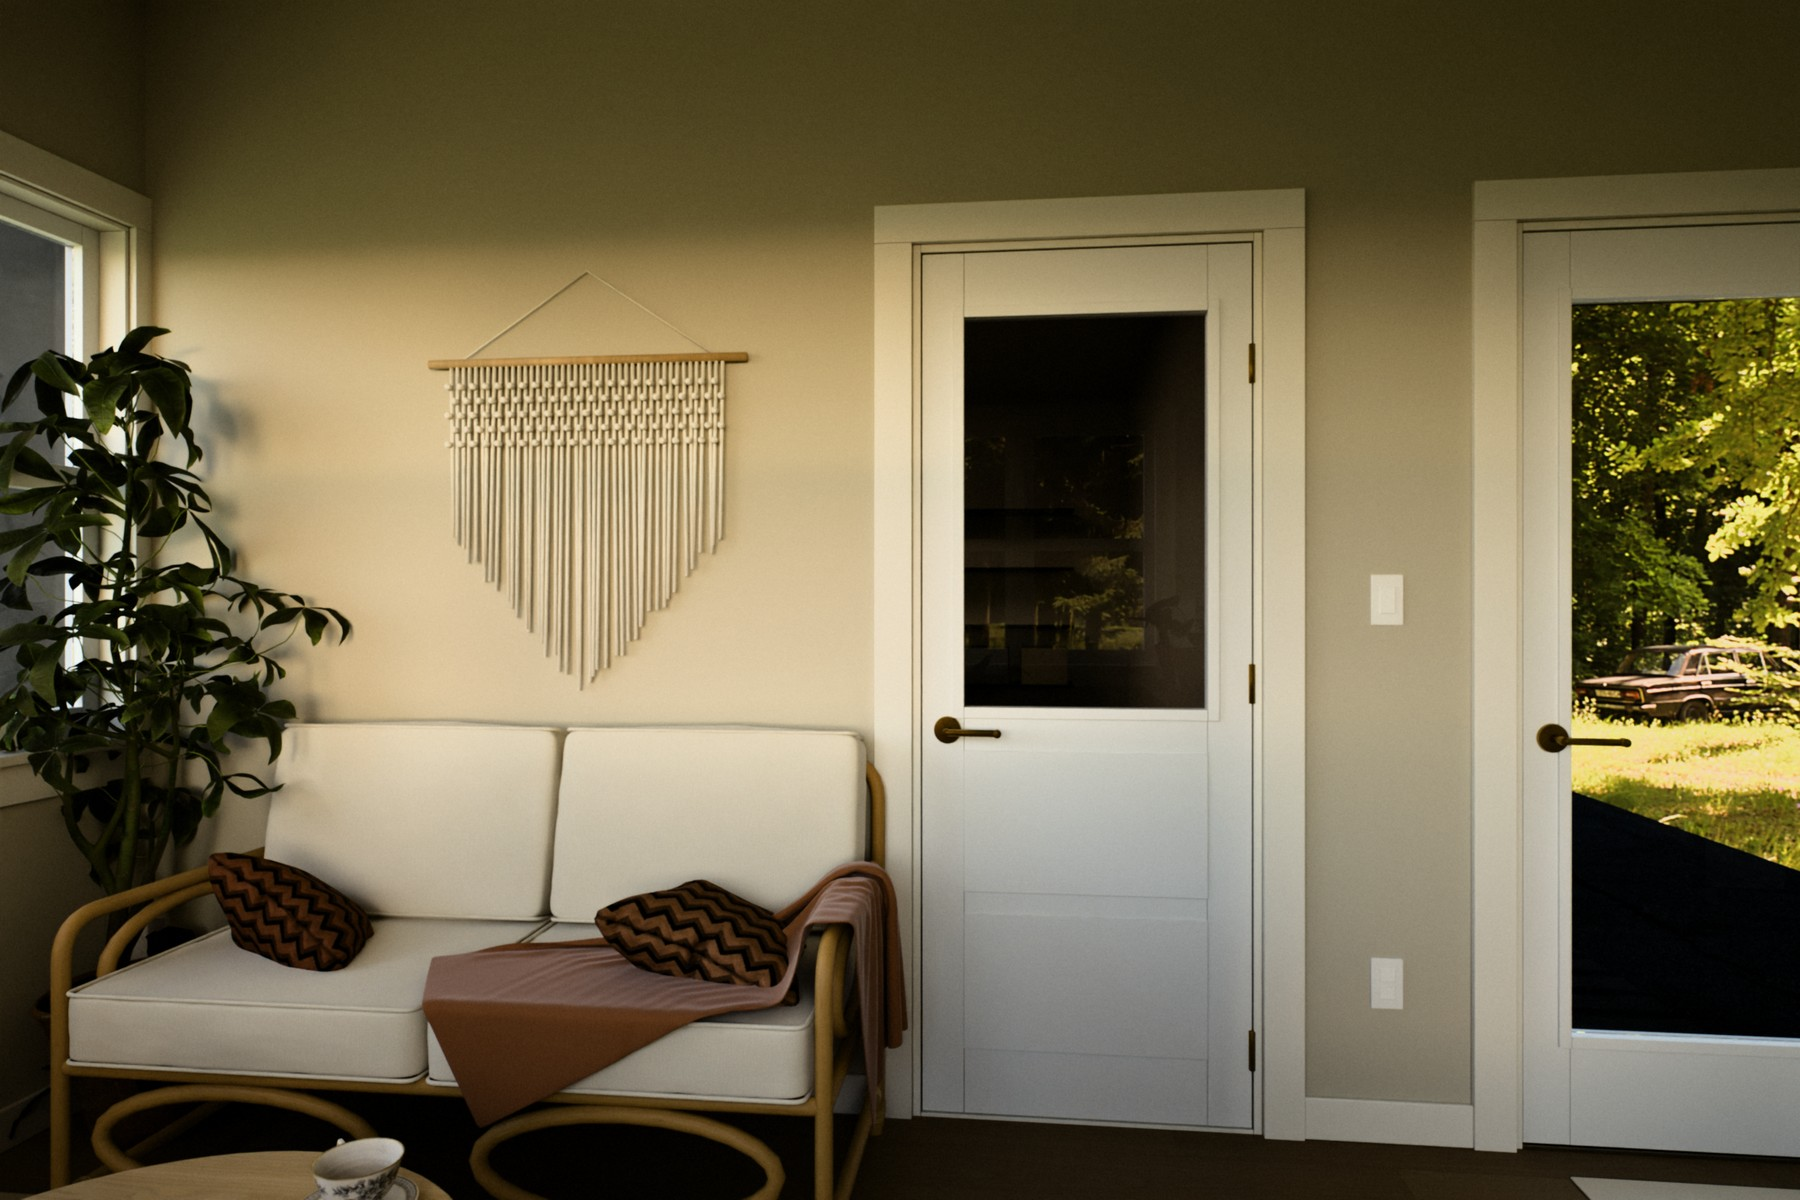
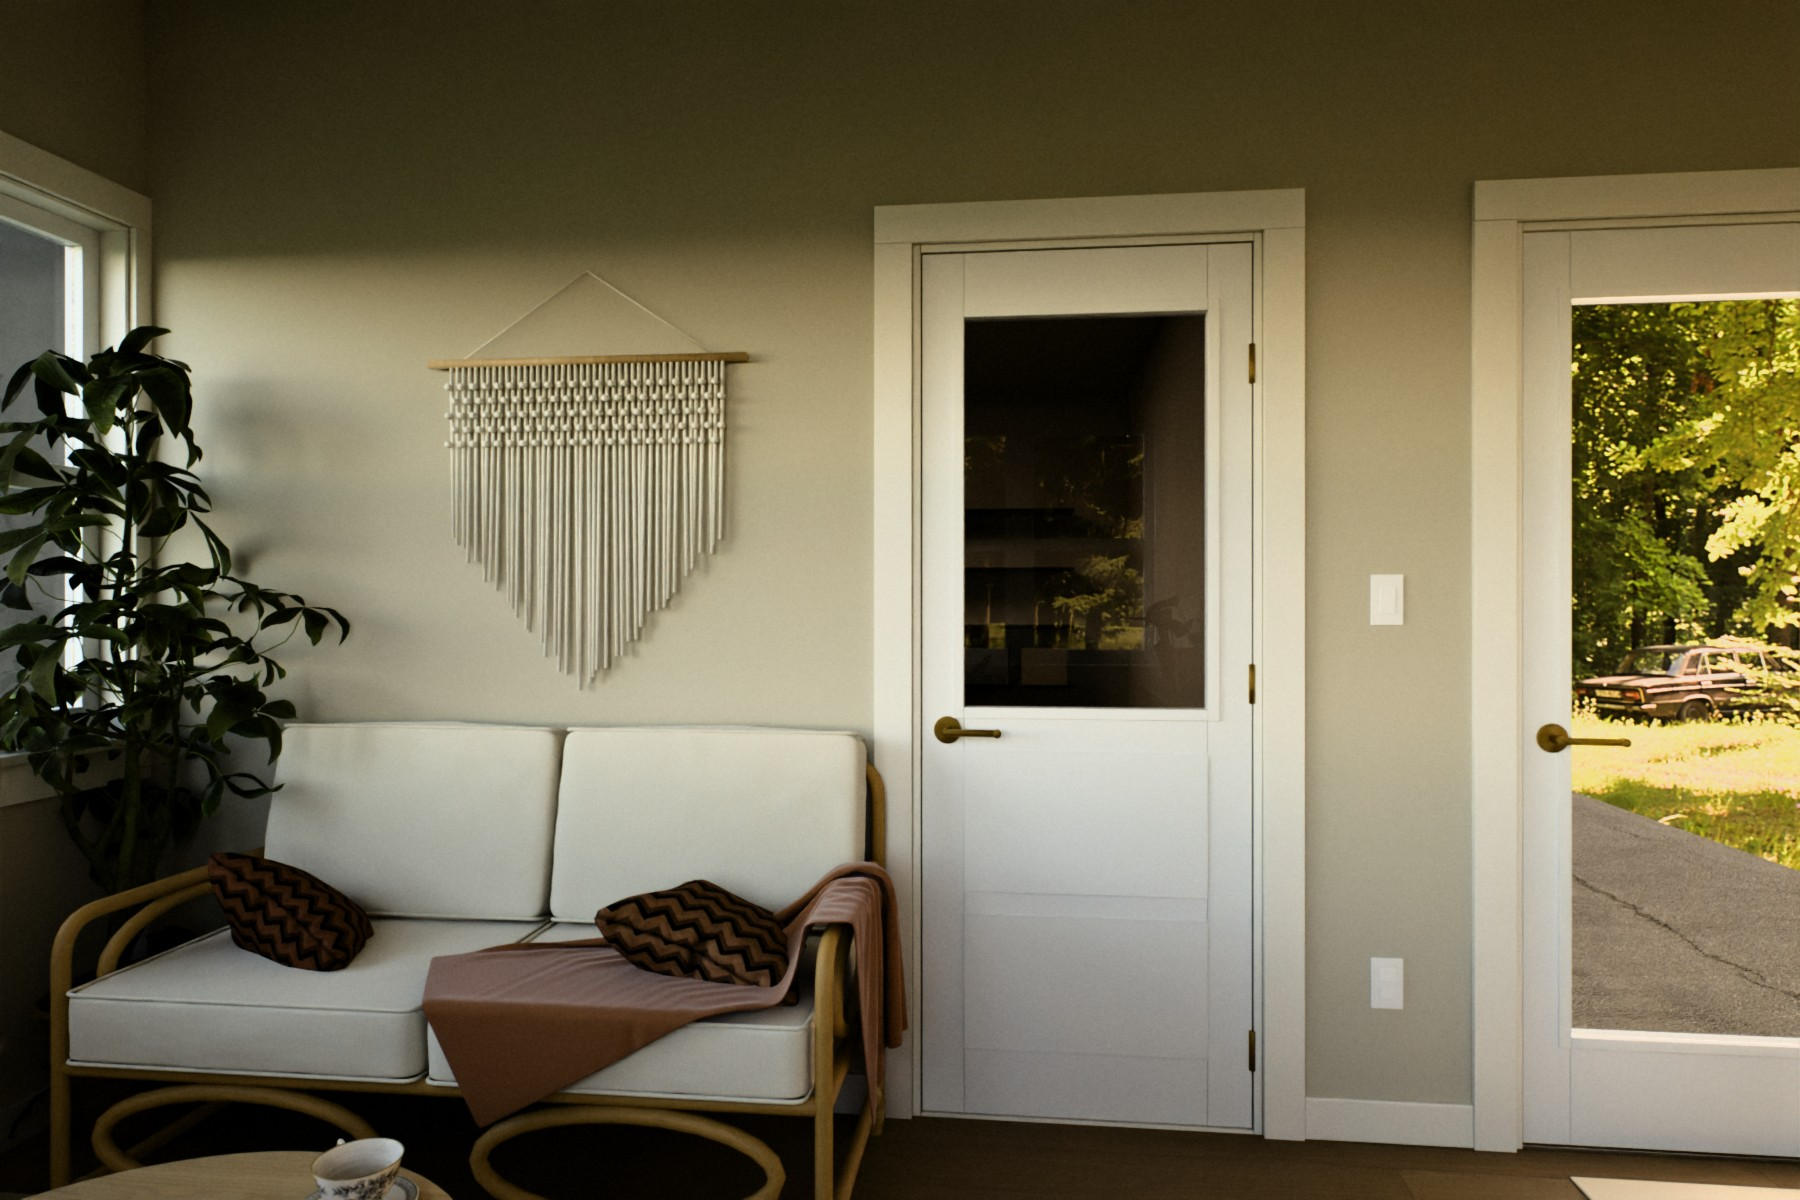
Correct the compass: the backyard-door wall faces north
The model had the mini-split wall as north, a quarter-turn off. All 30
photos re-rendered with the sun from the right directions, the west-wall
view renamed North wall, and the time-of-day notes rewritten to match.

diff --git a/index.html b/index.html
@@ -106,12 +106,12 @@
 
   <section class="time" id="morning">
     <h2>Morning <small>9:30 am</small></h2>
-    <p class="note" data-fall="The sun is in the southeast, so it comes in through the driveway door, under the awning." data-winter="Low winter sun from the southeast, and bright light bouncing off the snow.">The sun is in the southeast, so it comes in through the driveway door, under the awning.</p>
+    <p class="note" data-fall="The sun is in the southeast, so it comes in through the east windows under the mini split." data-winter="Low winter sun through the east windows, and bright light bouncing off the snow.">The sun is in the southeast, so it comes in through the east windows under the mini split.</p>
     <!--SHOTS-BEGIN:am930-->
     <figure class="shot"><img src="photos/am930_WindowCorner.jpg" data-fall="photos/am930_WindowCorner.jpg" data-winter="photos/winter/am930_WindowCorner.jpg" alt="Window corner" loading="eager">
       <figcaption><span class="num">1</span><span class="view">Window corner</span><span class="what">egg chair, both banks of windows, mini split</span></figcaption></figure>
-    <figure class="shot"><img src="photos/am930_WestWall.jpg" data-fall="photos/am930_WestWall.jpg" data-winter="photos/winter/am930_WestWall.jpg" alt="West wall" loading="lazy">
-      <figcaption><span class="num">2</span><span class="view">West wall</span><span class="what">backyard door, house off to the left, plant stand</span></figcaption></figure>
+    <figure class="shot"><img src="photos/am930_WestWall.jpg" data-fall="photos/am930_WestWall.jpg" data-winter="photos/winter/am930_WestWall.jpg" alt="North wall" loading="lazy">
+      <figcaption><span class="num">2</span><span class="view">North wall</span><span class="what">backyard door, house off to the left, plant stand</span></figcaption></figure>
     <figure class="shot"><img src="photos/am930_Doorway.jpg" data-fall="photos/am930_Doorway.jpg" data-winter="photos/winter/am930_Doorway.jpg" alt="From the house door" loading="lazy">
       <figcaption><span class="num">3</span><span class="view">From the house door</span><span class="what">looking toward the backyard windows</span></figcaption></figure>
     <figure class="shot"><img src="photos/am930_SofaWall.jpg" data-fall="photos/am930_SofaWall.jpg" data-winter="photos/winter/am930_SofaWall.jpg" alt="Loveseat wall" loading="lazy">
@@ -123,12 +123,12 @@
 
   <section class="time" id="midday">
     <h2>Midday <small>noon</small></h2>
-    <p class="note" data-fall="The house shades the room at noon, so it's all soft skylight. These show the colors most accurately." data-winter="The winter sun stays low even at noon; the snow outside brightens the whole room.">The house shades the room at noon, so it's all soft skylight. These show the colors most accurately.</p>
+    <p class="note" data-fall="The sun is to the south, mostly behind the garage, so the room is lit by soft skylight with a little sun through the driveway door. These show the colors most accurately." data-winter="The winter sun stays low even at noon and angles in through the driveway door; the snow outside brightens the whole room.">The sun is to the south, mostly behind the garage, so the room is lit by soft skylight with a little sun through the driveway door. These show the colors most accurately.</p>
     <!--SHOTS-BEGIN:noon-->
     <figure class="shot"><img src="photos/noon_WindowCorner.jpg" data-fall="photos/noon_WindowCorner.jpg" data-winter="photos/winter/noon_WindowCorner.jpg" alt="Window corner" loading="lazy">
       <figcaption><span class="num">1</span><span class="view">Window corner</span><span class="what">egg chair, both banks of windows, mini split</span></figcaption></figure>
-    <figure class="shot"><img src="photos/noon_WestWall.jpg" data-fall="photos/noon_WestWall.jpg" data-winter="photos/winter/noon_WestWall.jpg" alt="West wall" loading="lazy">
-      <figcaption><span class="num">2</span><span class="view">West wall</span><span class="what">backyard door, house off to the left, plant stand</span></figcaption></figure>
+    <figure class="shot"><img src="photos/noon_WestWall.jpg" data-fall="photos/noon_WestWall.jpg" data-winter="photos/winter/noon_WestWall.jpg" alt="North wall" loading="lazy">
+      <figcaption><span class="num">2</span><span class="view">North wall</span><span class="what">backyard door, house off to the left, plant stand</span></figcaption></figure>
     <figure class="shot"><img src="photos/noon_Doorway.jpg" data-fall="photos/noon_Doorway.jpg" data-winter="photos/winter/noon_Doorway.jpg" alt="From the house door" loading="lazy">
       <figcaption><span class="num">3</span><span class="view">From the house door</span><span class="what">looking toward the backyard windows</span></figcaption></figure>
     <figure class="shot"><img src="photos/noon_SofaWall.jpg" data-fall="photos/noon_SofaWall.jpg" data-winter="photos/winter/noon_SofaWall.jpg" alt="Loveseat wall" loading="lazy">
@@ -139,12 +139,12 @@
   </section>
 
   <section class="time" id="late">
-    <h2><span data-fall="5 pm" data-winter="3:30 pm">5 pm</span> <small data-fall="low sun through the west windows" data-winter="winter golden hour, an hour before sunset">low sun through the west windows</small></h2>
+    <h2><span data-fall="5 pm" data-winter="3:30 pm">5 pm</span> <small data-fall="low sun from the southwest, through the driveway door" data-winter="winter golden hour, an hour before sunset">low sun from the southwest, through the driveway door</small></h2>
     <!--SHOTS-BEGIN:late-->
     <figure class="shot"><img src="photos/pm5_WindowCorner.jpg" data-fall="photos/pm5_WindowCorner.jpg" data-winter="photos/winter/pm330_WindowCorner.jpg" alt="Window corner" loading="lazy">
       <figcaption><span class="num">1</span><span class="view">Window corner</span><span class="what">egg chair, both banks of windows, mini split</span></figcaption></figure>
-    <figure class="shot"><img src="photos/pm5_WestWall.jpg" data-fall="photos/pm5_WestWall.jpg" data-winter="photos/winter/pm330_WestWall.jpg" alt="West wall" loading="lazy">
-      <figcaption><span class="num">2</span><span class="view">West wall</span><span class="what">backyard door, house off to the left, plant stand</span></figcaption></figure>
+    <figure class="shot"><img src="photos/pm5_WestWall.jpg" data-fall="photos/pm5_WestWall.jpg" data-winter="photos/winter/pm330_WestWall.jpg" alt="North wall" loading="lazy">
+      <figcaption><span class="num">2</span><span class="view">North wall</span><span class="what">backyard door, house off to the left, plant stand</span></figcaption></figure>
     <figure class="shot"><img src="photos/pm5_Doorway.jpg" data-fall="photos/pm5_Doorway.jpg" data-winter="photos/winter/pm330_Doorway.jpg" alt="From the house door" loading="lazy">
       <figcaption><span class="num">3</span><span class="view">From the house door</span><span class="what">looking toward the backyard windows</span></figcaption></figure>
     <figure class="shot"><img src="photos/pm5_SofaWall.jpg" data-fall="photos/pm5_SofaWall.jpg" data-winter="photos/winter/pm330_SofaWall.jpg" alt="Loveseat wall" loading="lazy">

diff --git a/build_page.py b/build_page.py
@@ -2,7 +2,7 @@
 import pathlib
 
 VIEWS = [("WindowCorner", "Window corner", "egg chair, both banks of windows, mini split"),
-         ("WestWall", "West wall", "backyard door, house off to the left, plant stand"),
+         ("WestWall", "North wall", "backyard door, house off to the left, plant stand"),
          ("Doorway", "From the house door", "looking toward the backyard windows"),
          ("SofaWall", "Loveseat wall", "garage door and driveway door, brass levers"),
          ("LookBack", "Mud zone", "bench, boot tray, stairs down outside the driveway door")]
